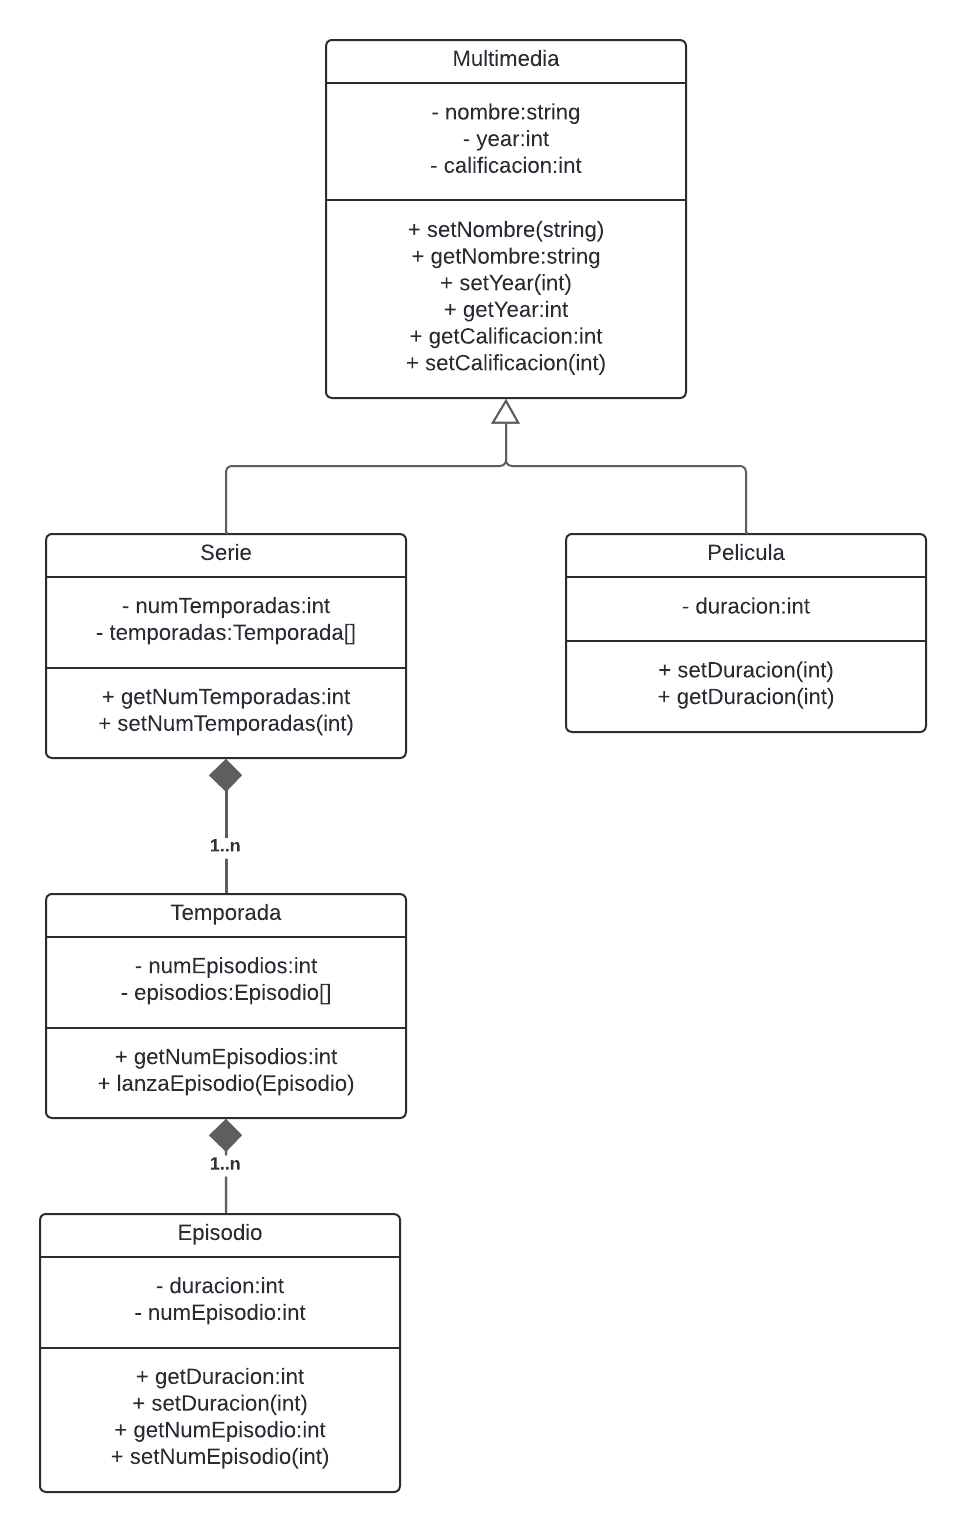
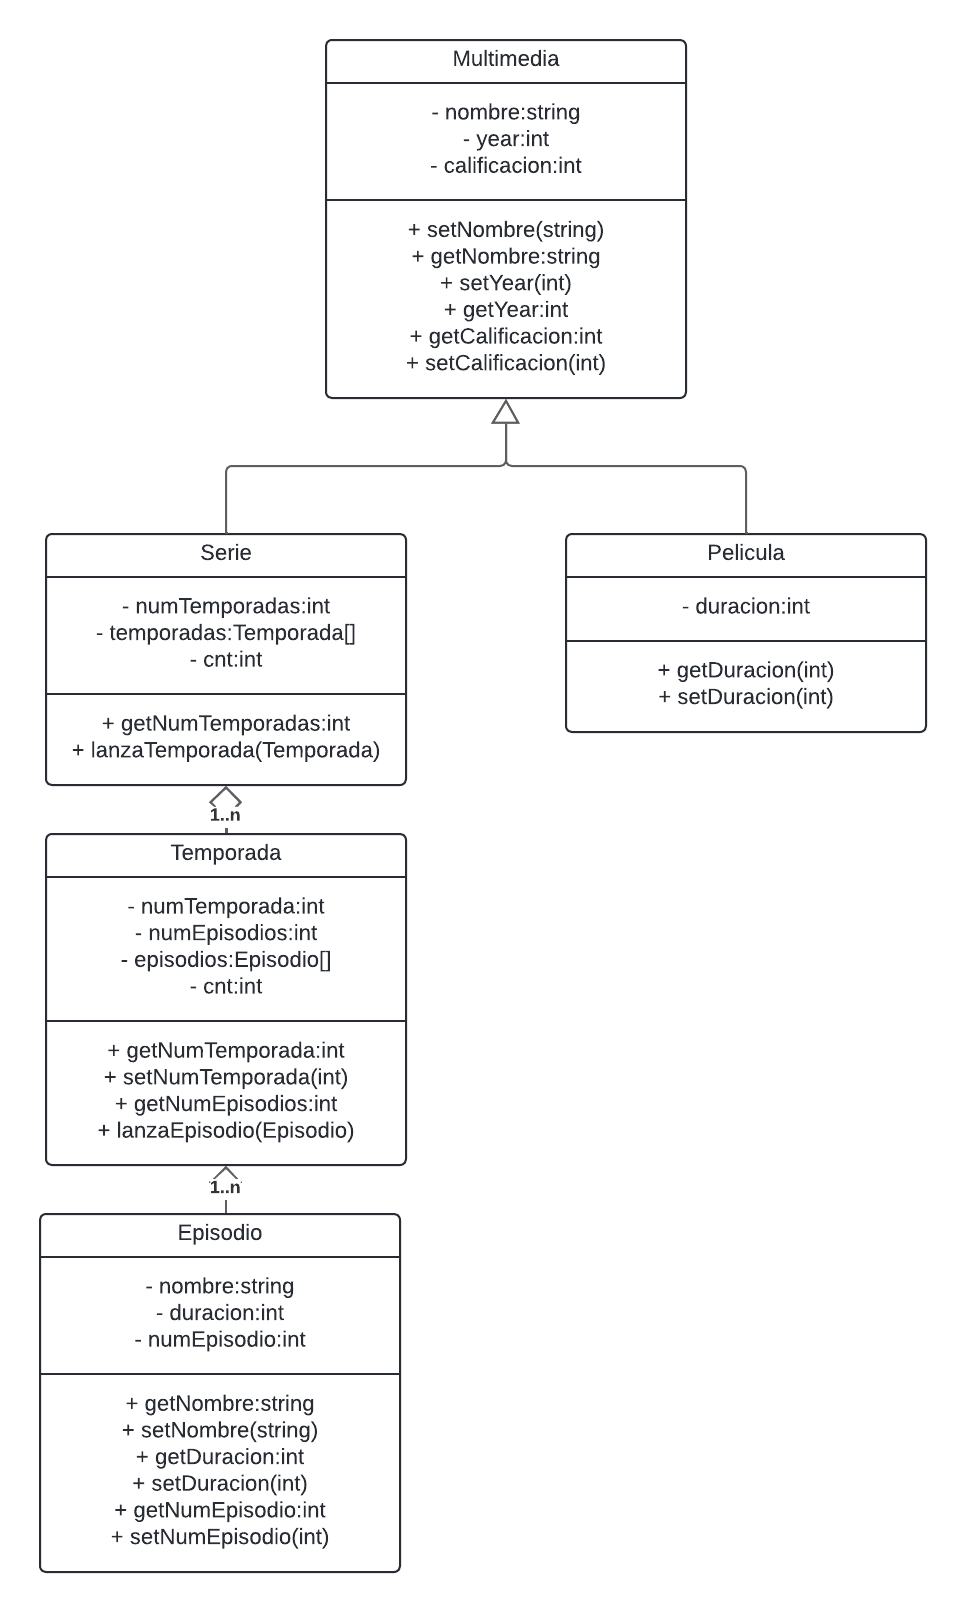
Add files via upload

diff --git a/multimedia.h b/multimedia.h
@@ -1,0 +1,119 @@
+#ifndef MULTIMEDIA_H
+#define MULTIMEDIA_H
+
+const int N = 500;
+
+struct Multimedia {
+	private:
+	std::string nombre;
+	int year;
+	int calificacion;
+	public:
+	Multimedia(std::string _nombre):nombre(_nombre){};
+	Multimedia(std::string, int, int);
+	void setNombre(std::string);
+	std::string getNombre();
+	void setYear(int);
+	int getYear();
+	void setCalificacion(int);
+	int getCalificacion();
+};
+
+Multimedia::Multimedia(std::string _nombre, int _year, int _calificacion) {
+	nombre = _nombre;
+	year = _year;
+	calificacion = _calificacion;
+}
+
+void Multimedia::setNombre(std::string _nombre) {
+	nombre = _nombre;
+}
+
+std::string Multimedia::getNombre() {
+	return nombre;
+}
+
+void Multimedia::setYear(int _year) {
+	year = _year;
+}
+
+int Multimedia::getYear() {
+	return year;
+}
+
+void Multimedia::setCalificacion(int _calificacion) {
+	calificacion = _calificacion;
+}
+
+int Multimedia::getCalificacion() {
+	return calificacion;
+}
+
+class Episodio {
+	private:
+	std::string nombre;
+	int duracion;
+	int numEpisodio;
+	public:
+	Episodio(std::string, int, int);
+	Episodio():nombre("0"),duracion(0),numEpisodio(-1){};
+	std::string getNombre(){ return nombre; }
+	void setNombre(std::string _nombre){ nombre = _nombre; }
+	int getDuracion(){ return duracion; }
+	void setDuracion(int _duracion){ duracion = _duracion; }
+	int getNumEpisodio(){ return numEpisodio; }
+	void setNumEpisodio(int num){ numEpisodio = num; }
+};
+
+Episodio::Episodio(std::string _nombre, int _duracion, int _numEpisodio) {
+	nombre = _nombre;
+	duracion = _duracion;
+	numEpisodio = _numEpisodio;
+}
+
+class Temporada {
+		private:
+		int numTemporada;
+		int numEpisodios;
+		Episodio episodios[N];
+		int cnt;
+		public:
+		Temporada():numTemporada(0),numEpisodios(0),cnt(0){};
+		Temporada(int num):numTemporada(num),numEpisodios(0),cnt(0){};
+		int getNumTemporada(){ return numTemporada; }
+		void setNumTemporada(int num){ numTemporada = num; }
+		int getNumEpisodios(){ return numEpisodios; }
+		void lanzaEpisodio(Episodio);
+};
+
+void Temporada::lanzaEpisodio(Episodio nuevo) {
+	episodios[cnt] = nuevo;
+	++cnt;
+}
+
+class Serie: public Multimedia {
+	private:
+	int numTemporadas;
+	Temporada temporadas[N];
+	int cnt;
+	public:
+	Serie(std::string _nombre):Multimedia(_nombre),cnt(0){};
+	int getNumTemporadas(){ return numTemporadas; }
+	void lanzaTemporada(Temporada);
+};
+
+void Serie::lanzaTemporada(Temporada nueva) {
+	temporadas[cnt] = nueva;
+	++cnt;
+}
+
+class Pelicula: public Multimedia {
+	private:
+	int duracion;
+	public:
+	Pelicula(std::string _nombre):Multimedia(_nombre){};
+	int getDuracion(){ return duracion; }
+	void setDuracion(int _duracion){ duracion = _duracion; }
+};
+
+#endif
